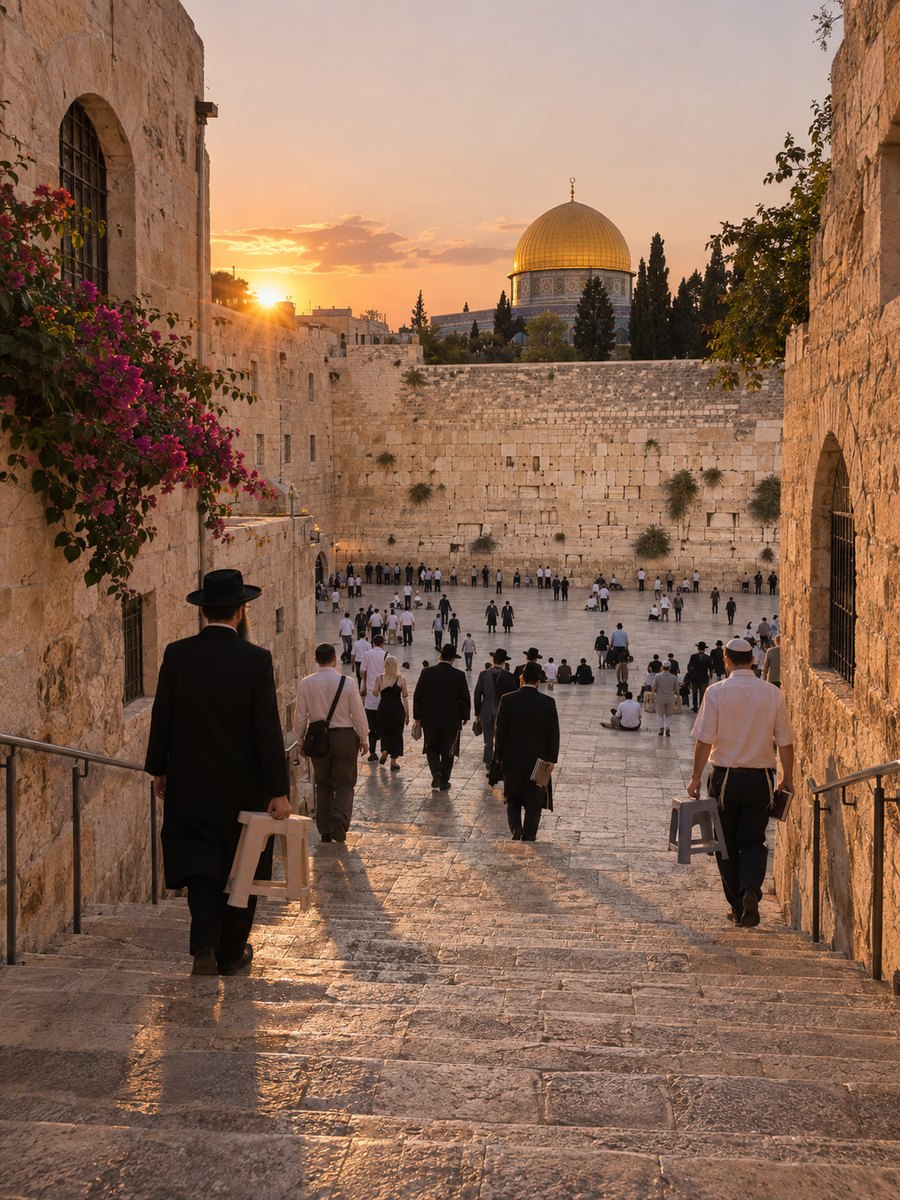
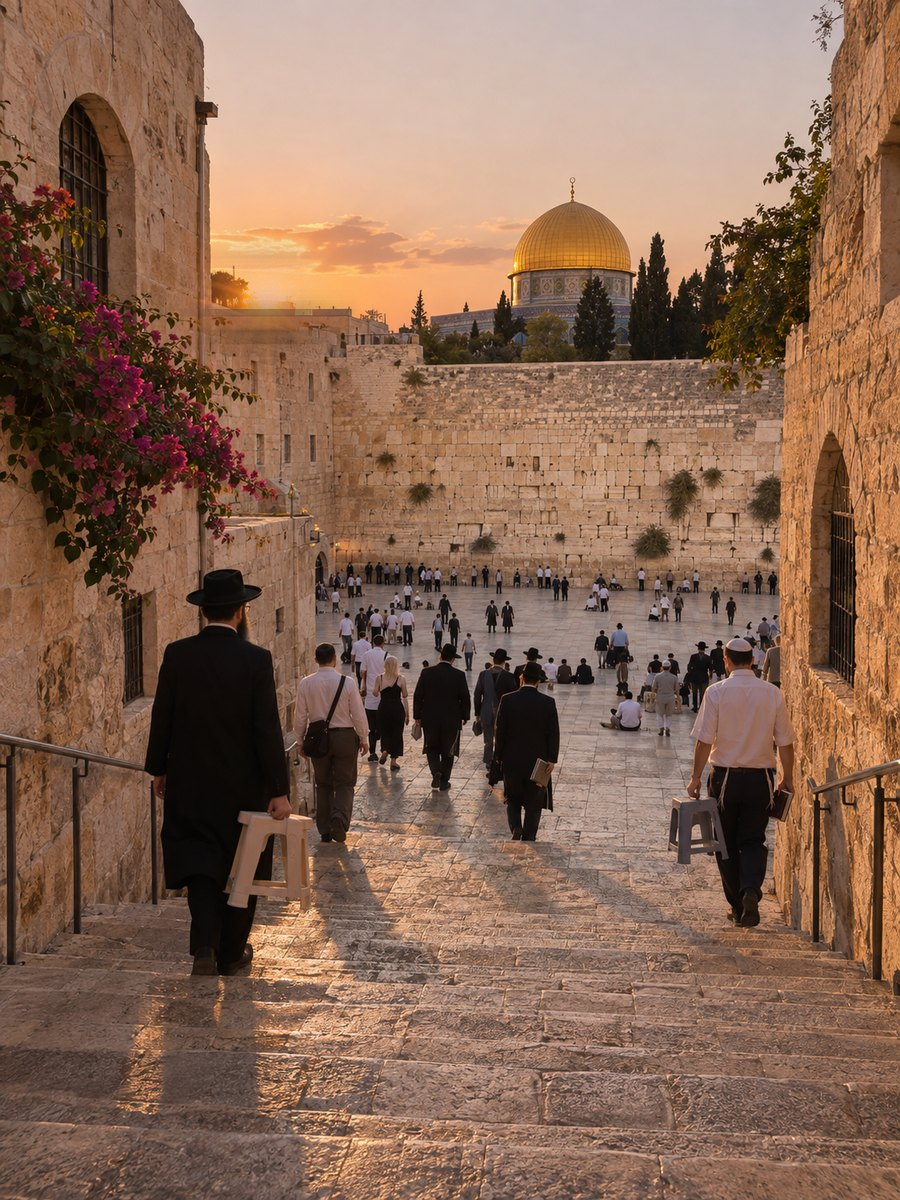
v5z: Episode 2 Act 1 finishing fixes (steps sun, coffee cup, brass ring)
Claude-Session: https://claude.ai/code/session_01L1pMk9pvWmofH5XXpyXNuy

Changed region(s): [[0.2178, 0.185, 0.3733, 0.3083]]

diff --git a/app/www/js/fsy-ep2.js b/app/www/js/fsy-ep2.js
@@ -296,10 +296,13 @@
     const q3 = (h) => K.card('<div class="kick">The arrivals hall</div>' + h + clip("haller-leaves") + "<p>He puts the second coffee down on the ledge beside you, nods, and is gone into the crowd at the doors.</p>" +
       '<button class="cta" data-act="x">Pick up the cup</button>',
       { x: () => { give("coffee"); note("haller", "At the airport: “We are both waiting for the same seventeen days.”");
-        K.card('<div class="e2-cup"><svg viewBox="0 0 120 150" aria-hidden="true"><path d="M20 20h80l-8 120H28z" fill="#EFE7D6" stroke="#B9AD92" stroke-width="2"/><path d="M14 10h92v14H14z" fill="#3A3A3A"/><text x="60" y="88" text-anchor="middle" font-family="Marker Felt, Comic Sans MS, cursive" font-size="17" fill="#1F2A6B" transform="rotate(-6 60 88)">' + esc(playerName()) + "</text></svg></div>" +
+        K.card('<div class="e2-cup"><svg viewBox="0 0 120 160" aria-hidden="true"><defs><linearGradient id="e2cf" x1="0" y1="0" x2="0" y2="1"><stop offset="0" stop-color="#B9773A"/><stop offset="1" stop-color="#5A2E14"/></linearGradient></defs>' +
+          '<path d="M64 2l-3 30" stroke="#2A2A2A" stroke-width="4" stroke-linecap="round"/><path d="M22 30h76l-9 122H31z" fill="url(#e2cf)" stroke="#D8D2C4" stroke-width="2.5"/><path d="M22 30h76l-1.6 22H23.6z" fill="#E9E2D2" opacity=".55"/>' +
+          '<rect x="34" y="40" width="13" height="12" rx="3" fill="#F4EEE0" opacity=".7" transform="rotate(-12 40 46)"/><rect x="56" y="44" width="13" height="12" rx="3" fill="#F4EEE0" opacity=".6" transform="rotate(9 62 50)"/><rect x="76" y="39" width="12" height="11" rx="3" fill="#F4EEE0" opacity=".65" transform="rotate(-6 82 44)"/>' +
+          '<path d="M17 22h86v10H17z" fill="#EDE7D8" stroke="#C9C1AE" stroke-width="1.5"/><rect x="36" y="78" width="48" height="32" rx="3" fill="#FBF8EF" stroke="#C9C1AE"/><text x="60" y="101" text-anchor="middle" font-family="Marker Felt, Comic Sans MS, cursive" font-size="20" fill="#1F2A6B" transform="rotate(-5 60 96)">23A</text></svg></div>' +
+          '<p>In marker on the label: <b>23A</b>. Your seat on the flight.</p>' +
           '<button class="cta" data-act="x">Go on</button>', { x: () => K.card('<div class="kick">The arrivals hall</div><p>He does not know what Yoel wants on the Mount. Neither do you.</p><button class="cta" data-act="x">On to Jerusalem</button>', { x: after }) }); } });
   };
-  const playerName = () => (Lamp.state.name || "your name").slice(0, 14);
   /* Scene 3 */
   ACT.book = () => {
     set("book:book1"); set("book:book2"); set("book:address"); set("bookread");
@@ -572,10 +575,16 @@
     const items = AV.map((d, i) => {
       const a = ((i - (at - 1)) / 30) * 2 * Math.PI, x = 110 + 86 * Math.sin(a), y = 110 - 86 * Math.cos(a);
       const inWin = marks.length === 2 && d >= 11 && d <= 27, isMark = marks.includes(d);
-      return '<text x="' + x.toFixed(1) + '" y="' + (y + 4).toFixed(1) + '" text-anchor="middle" font-size="' + (d === at ? 15 : 11) + '" font-weight="' + (d === at ? 800 : 600) + '" fill="' + (isMark ? "#B23A2A" : inWin ? "#7A5A12" : "#3A3020") + '">' + d + "</text>";
+      return '<text x="' + x.toFixed(1) + '" y="' + (y + 4).toFixed(1) + '" text-anchor="middle" font-size="' + (d === at ? 15 : 11) + '" font-weight="' + (d === at ? 800 : 600) + '" fill="' + (isMark ? "#9E2416" : inWin ? "#5A3F0C" : "#2E2208") + '" font-family="Georgia, serif">' + d + "</text>";
     }).join("");
-    return '<svg class="e2-ring" viewBox="0 0 220 220" aria-hidden="true"><circle cx="110" cy="110" r="104" fill="#E3BC5C" stroke="#7A5A12" stroke-width="3"/><circle cx="110" cy="110" r="68" fill="#C9A24A" stroke="#7A5A12" stroke-width="2"/>' +
-      '<path d="M110 2 l-7 14 h14z" fill="#B23A2A"/>' + items + '<text x="110" y="106" text-anchor="middle" font-size="14" font-weight="800" fill="#2A2010">אב</text><text x="110" y="124" text-anchor="middle" font-size="11" fill="#2A2010">Av 5787</text></svg>';
+    const ticks = AV.map((d, i) => { const a = ((i - (at - 1)) / 30) * 2 * Math.PI, s = Math.sin(a), c = Math.cos(a); return '<path d="M' + (110 + 99 * s).toFixed(1) + " " + (110 - 99 * c).toFixed(1) + "L" + (110 + 103 * s).toFixed(1) + " " + (110 - 103 * c).toFixed(1) + '" stroke="#5A3F0C" stroke-width="1.4"/>'; }).join("");
+    return '<svg class="e2-ring" viewBox="0 0 220 220" aria-hidden="true"><defs>' +
+      '<radialGradient id="e2br" cx="38%" cy="30%" r="80%"><stop offset="0" stop-color="#F3DA8C"/><stop offset=".55" stop-color="#C99A3C"/><stop offset="1" stop-color="#8A6418"/></radialGradient>' +
+      '<radialGradient id="e2bi" cx="40%" cy="32%" r="75%"><stop offset="0" stop-color="#D9B458"/><stop offset=".7" stop-color="#A97C26"/><stop offset="1" stop-color="#7A5712"/></radialGradient></defs>' +
+      '<circle cx="110" cy="110" r="107" fill="#4A3308"/><circle cx="110" cy="110" r="104" fill="url(#e2br)" stroke="#6A4A0E" stroke-width="2"/>' + ticks +
+      '<circle cx="110" cy="110" r="70" fill="#4A3308"/><circle cx="110" cy="110" r="68" fill="url(#e2bi)" stroke="#6A4A0E" stroke-width="1.5"/><circle cx="110" cy="110" r="60" fill="none" stroke="#6A4A0E" stroke-width=".8" opacity=".6"/>' +
+      '<circle cx="110" cy="150" r="5" fill="#8A6418" stroke="#4A3308"/><circle cx="110" cy="150" r="1.6" fill="#3A2806"/>' +
+      '<path d="M110 2 l-7 14 h14z" fill="#B23A2A" stroke="#6A1E14" stroke-width="1"/>' + items + '<text x="110" y="106" text-anchor="middle" font-size="15" font-weight="800" fill="#3A2806">אב</text><text x="110" y="124" text-anchor="middle" font-size="11" font-weight="600" fill="#3A2806">Av 5787</text></svg>';
   }
 
   /* ------------------------------------------------------------ hints ------------------------------------------------------------ */

diff --git a/app/www/js/release.js b/app/www/js/release.js
@@ -8,7 +8,7 @@
   /* Every new build starts from the very first scene (full start screen, Creation level 1), as Richard asked.
      The progress saved by an older build, here and in iCloud, is set aside.
      !! Turn FRESH_EACH_BUILD off before an UPDATE goes to real players, or their progress would be wiped. */
-  const BUILD = "v5y";
+  const BUILD = "v5z";
   const FRESH_EACH_BUILD = true;   // off for TestFlight: testers keep their progress between updates
   /* The Final Seven Years: false = shown as a preview only, every chapter locked ("Coming soon").
      Set to true when Richard opens chapter 1. */

diff --git a/app/www/js/dev.js b/app/www/js/dev.js
@@ -9,7 +9,7 @@
      Garden Gate, mark the first three stories done, reset the adventure, replay the full start screen. */
 (function () {
   "use strict";
-  const TESTER = true;    // tester build v5y
+  const TESTER = true;    // tester build v5z
   const Lamp = (window.Lamp = window.Lamp || {});
   Lamp.tester = TESTER;
   if (!TESTER) return;

diff --git a/docs/fsy/FIX-LIST.md b/docs/fsy/FIX-LIST.md
@@ -403,3 +403,8 @@ Views if wanted: the Kidron path and the gate outside at dawn (the Act 4 picture
 
 ## v5y — Haller's coffee clip remade
 - haller-coffee: new clip (whole head in frame, two takeaway cups, by a pillar), 9 s. The first version is kept as haller-coffee-v1 in the originals. Card text: "The grey coat on, even in this heat."
+
+## v5z — Episode 2, Act 1: three finishing fixes
+- wallsteps-dusk: the sun (which was in the east) painted out; the edited original is wallsteps-dusk-nosun.png.
+- The coffee cup: no player name. It is now a clear iced-coffee cup with "23A" on the label, and the line "Your seat on the flight."
+- The ring of Av is drawn as brass (shading, engraved ticks, serif numerals) so it matches the instrument photograph.
